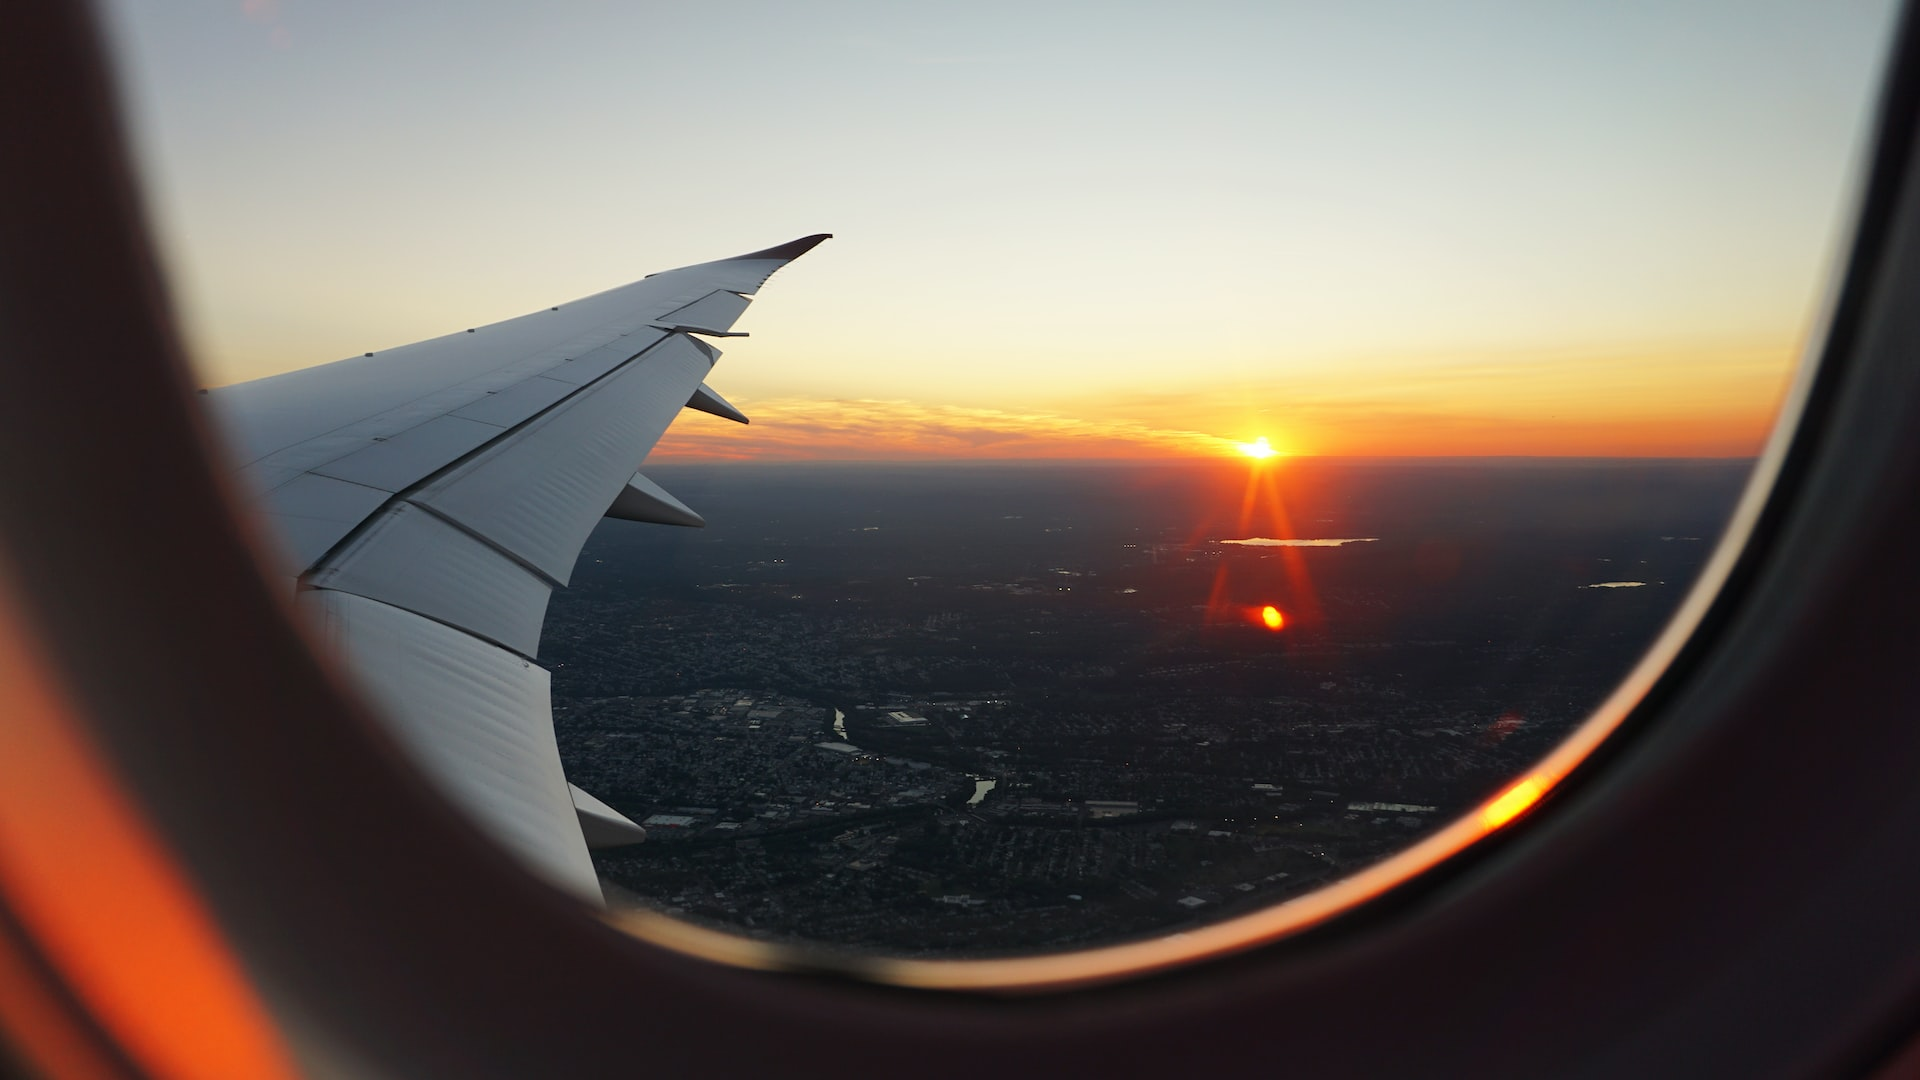
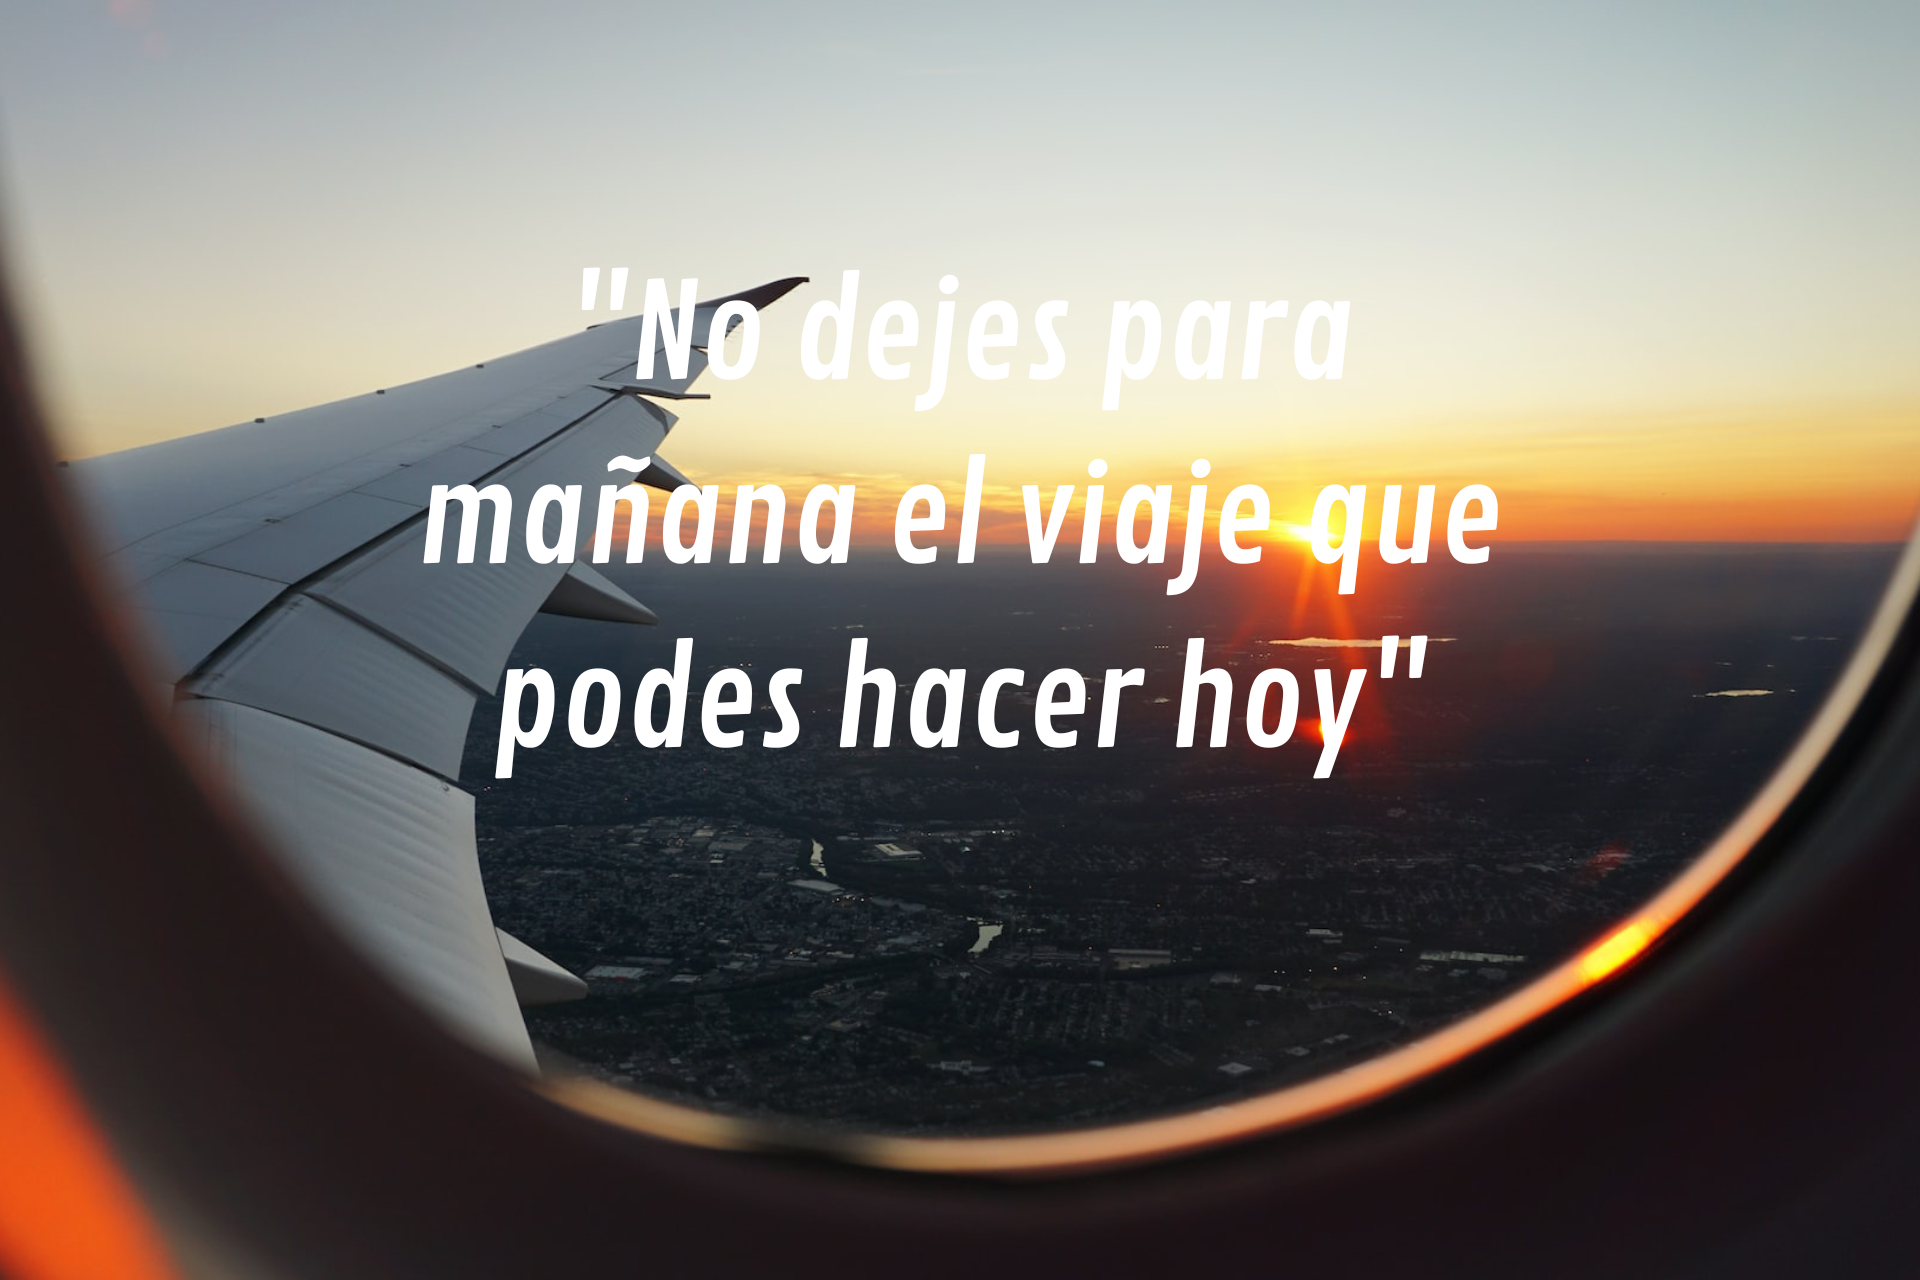
Responsive nav,modalpost,cards,home,landing,login

diff --git a/src/componentes/Navbar/style.css b/src/componentes/Navbar/style.css
@@ -1,6 +1,8 @@
 #nav {
-    width: 20%;
-    display: flex;
+    width: 25%;
+    margin: 0;
+    position: absolute;
+    display: block;
     flex-direction: column;
     height: 100vh;
     align-items: center;
@@ -10,11 +12,11 @@
 
 h2{
     font-size: 40px;
-    margin-top: 70px;
+    margin-top: 15px;
     color: blue;
 }
 
-i{
+#nav ul li i{
     margin-right: 20px;
 }
 
@@ -42,11 +44,83 @@ ul{
 }
 
 #post {
-    margin: 0 auto;
-    margin-top: 25vh;
-    width: 300px;
+    margin: 30px;
+    margin-top: 20vh;
+    width: 65%;
+    position: absolute;
+    display: block;
     border-radius: 20px;
     font-weight: 600;
     background-color: blue;
     border: none;
+}
+
+.checkbtn {
+    display: none;
+}
+
+#check {
+    display: none;
+}
+
+@media screen and (max-width: 767px) {
+    #nav {
+        width: 70%;
+        height: 100%;
+        margin: 0;
+        position: absolute;
+        float: none;
+        display: block;
+        left: -100%;
+        transition: all .5s;
+    }
+
+    .checkbtn {
+        display: block;
+        width: 100%;
+        background-color: rgba(242, 242, 242, 0.532);
+    }
+
+    .checkbtn .menu {
+        display: block;
+        padding: 20px;
+        background-color: rgba(242, 242, 242, 0.532);
+        color: black;
+        text-decoration: none;
+        font-weight: bold;
+        -webkit-box-sizing: border-box;
+        -moz-box-sizing: border-box;
+        box-sizing: border-box;
+    }
+
+    .checkbtn i {
+        float: right;
+    }
+
+    #check:checked ~ #nav{
+        left:0;
+    }
+
+    #post{
+        width: 60%;
+        position: absolute;
+        float: none;
+        display: block;
+        margin: 33px;
+    }
+
+    button{
+        justify-content: center;
+        justify-items: center;
+    }
+
+    h2{
+        margin-top: 15px;
+    }
+}
+
+@media screen and (min-width : 768px ) and (max-width : 1023px ) {
+    #nav{
+        width: 30%;
+    }
 }

diff --git a/src/paginas/Home/Home.js b/src/paginas/Home/Home.js
@@ -20,21 +20,12 @@ const Home = () => {
           <div className="carousel-inner">
             <div className="carousel-item active">
               <img src={img1} className="d-block w-100 h-100" alt="..."/>
-              <div className="carousel-caption d-none d-md-block">
-                <h5>"No dejes para mañana el viaje que podes hacer hoy"</h5>
-              </div>
             </div>
             <div className="carousel-item active">
               <img src={img2} className="d-block w-100 h-100" alt="..."/>
-              <div className="carousel-caption d-none d-md-block margin">
-                <h5>"Si no escalas la montaña, jamás podrás disfrutar del paisaje"</h5>
-              </div>
             </div>
             <div className="carousel-item active">
               <img src={img3} className="d-block w-100 h-100" alt="..."/>
-              <div className="carousel-caption d-none d-md-block margin">
-                <h5>"Viaja, no para escapar de la vida, sino para que la vida no se escape"</h5>
-              </div>
             </div>
           </div>
           <button className="carousel-control-prev" type="button" data-bs-target="#carouselExampleCaptions" data-bs-slide="prev">
@@ -47,12 +38,6 @@ const Home = () => {
           </button>
         </div>
       </div> 
-      {/* <div className='imagen'>
-        <img src={img1}/>
-        <div className="carousel-caption d-flex d-md-block">
-            <h5>"Viaja, no para escapar de la vida, sino para que la vida no se escape"</h5>
-        </div>
-      </div>  */}
     </div>
     </>
     

diff --git a/src/componentes/ModalPost/Modal.css b/src/componentes/ModalPost/Modal.css
@@ -100,3 +100,98 @@ h3{
     color: #d4e3ff;
 }
 
+@media screen and (max-width: 767px) {
+    
+    #modal{
+        width: 90%;
+        height: 70%;
+        align-items: center;
+    }
+
+    .modal-container{
+        padding: 0%;
+    }
+
+    h3{
+        margin-top: 17px;
+    }
+
+    .modal-close{
+        margin-top: -19px;
+    }
+
+    .modal-text{
+        padding: 1px 2px;
+    }
+
+    .modal-input-descripcion{
+        padding-bottom: 10%;
+    }
+
+    .button{
+        width: 50%;
+        
+    }
+
+    .modal-postear{
+        width: 25%;
+    }
+
+    button.modal-postear{
+        
+        left: 37%;
+        
+    }
+}
+
+@media screen and (min-width : 768px ) and (max-width : 1023px ) {
+    #modal{
+        width: 60%;
+        height: 70%;
+        align-items: center;
+    }
+
+    .modal-container{
+        padding: 0;
+    }
+
+    h3{
+        margin-top: 17px;
+    }
+
+    .modal-close{
+        margin-top: -20px;
+    }
+
+    .modal-input-descripcion{
+        padding-bottom: 10%;
+    }
+
+    button.modal-postear{
+        right: 10%;
+    }
+}
+
+@media screen and (min-width : 1024px ) {
+    #modal{
+        width: 60%;
+        height: 80%;
+        align-items: center;
+    }
+
+    .modal-container{
+        padding: 0;
+    }
+
+    h3{
+        margin-top: 30px;
+    }
+
+    .modal-close{
+        margin-top: -20px;
+    }
+
+    button.modal-postear{
+        right: 10%;
+    }
+}

diff --git a/src/paginas/Home/style.css b/src/paginas/Home/style.css
@@ -1,32 +1,24 @@
-
 .carousel-inner{
-    height: 92vh;
-}
-
-.imagen {
     height: 93vh;
+}
+
+.carousel-item {
+    height: 100%;
     width: 100%;
-}
-
-
-h5 {
-    font-variant: small-caps;
-    margin: 0 auto;
-    width: 50vw;
-    font-size: 60px;
-    margin-bottom: 27%;
-    padding-bottom: 80px;
-}
-
-.margin{
-    margin-bottom: 100px;
 }
 
 @media screen and (max-width: 767px) {
     
     .carousel-inner{
-        height: 100%;
         width: 100%;
+        justify-items: center;
+        justify-content: center;
     }
 }
 
+@media screen and (min-width : 768px ) and (max-width : 1023px ) {
+    .carousel-inner{
+        height: 87vh;
+        width: 100%;
+    }
+}

diff --git a/src/componentes/Navbar/Navbar.js b/src/componentes/Navbar/Navbar.js
@@ -14,6 +14,11 @@ const Navbar = () => {
 
   return (
     <>
+        <input type="checkbox" id="check"></input>
+        <label for="check" class="checkbtn">
+          <a className='menu'><i class="bi bi-list"></i>Menu</a>
+        </label>
+
       <div id='nav'>
         <h2>TRIPIANDO</h2>
 
@@ -39,7 +44,6 @@ const Navbar = () => {
         <button id='post'className='btn btn-primary' onClick={modalOpen} > NUEVO POST </button>
         <Modal isOpen={isOpenModal} isClose={modalClose}></Modal>
       </div>
-
     </>
   )
 }

diff --git a/src/paginas/Landing/Landing.js b/src/paginas/Landing/Landing.js
@@ -10,6 +10,7 @@ const Landing = () => {
   console.log(posts)
 
   return (
+    <body style={{backgroundColor: "#ABC9FF"}}>
     <div className='styleLanding'>
       <Navbar3/>
       <div className='d-flex justify-content-between'>
@@ -20,6 +21,7 @@ const Landing = () => {
           }
       </div>
     </div>
+    </body>
   )
 }
 

diff --git a/src/App.js b/src/App.js
@@ -13,7 +13,7 @@ import Login from './paginas/Login';
 import Footer from './componentes/Footer/Footer';
 import { useContext } from 'react';
 import { Context } from './store/AppContext';
-import Cookies from 'js-cookie';
+//import Cookies from 'js-cookie';
 
 
 

diff --git a/src/paginas/Login/style.css b/src/paginas/Login/style.css
@@ -39,3 +39,14 @@ h2{
     }
 
 }
+
+@media screen and (min-width : 768px ) and (max-width : 1023px ) {
+    body{
+        overflow: scroll;
+    }
+
+    #formularios{
+        width: 100%;
+        height: 100vh;
+    }
+}

diff --git a/src/paginas/Landing/style.css b/src/paginas/Landing/style.css
@@ -1,5 +1,5 @@
 .styleLanding{
     width: 100%;
     height: 100vh;
-    background-color: #ABC9FF;
+    overflow: scroll;
 }

diff --git a/src/componentes/LandingCards/style.css b/src/componentes/LandingCards/style.css
@@ -1,7 +1,3 @@
-.color{
-    background-color: #ABC9FF;
-}
-
 img{
     height: 40vh;
 }
